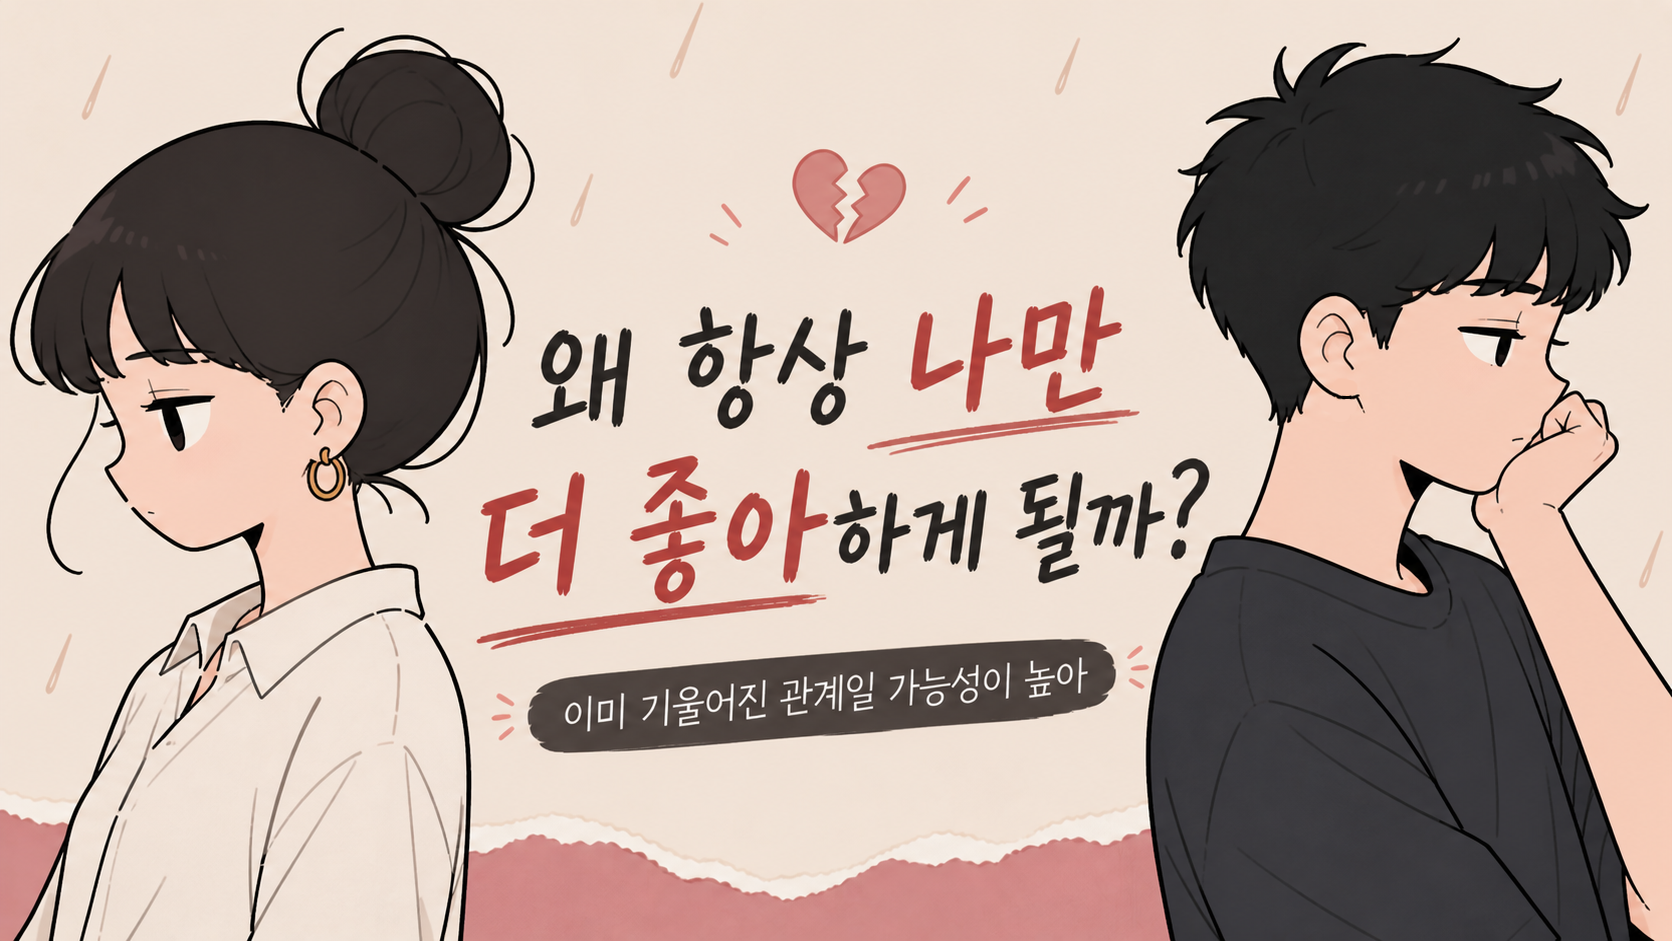
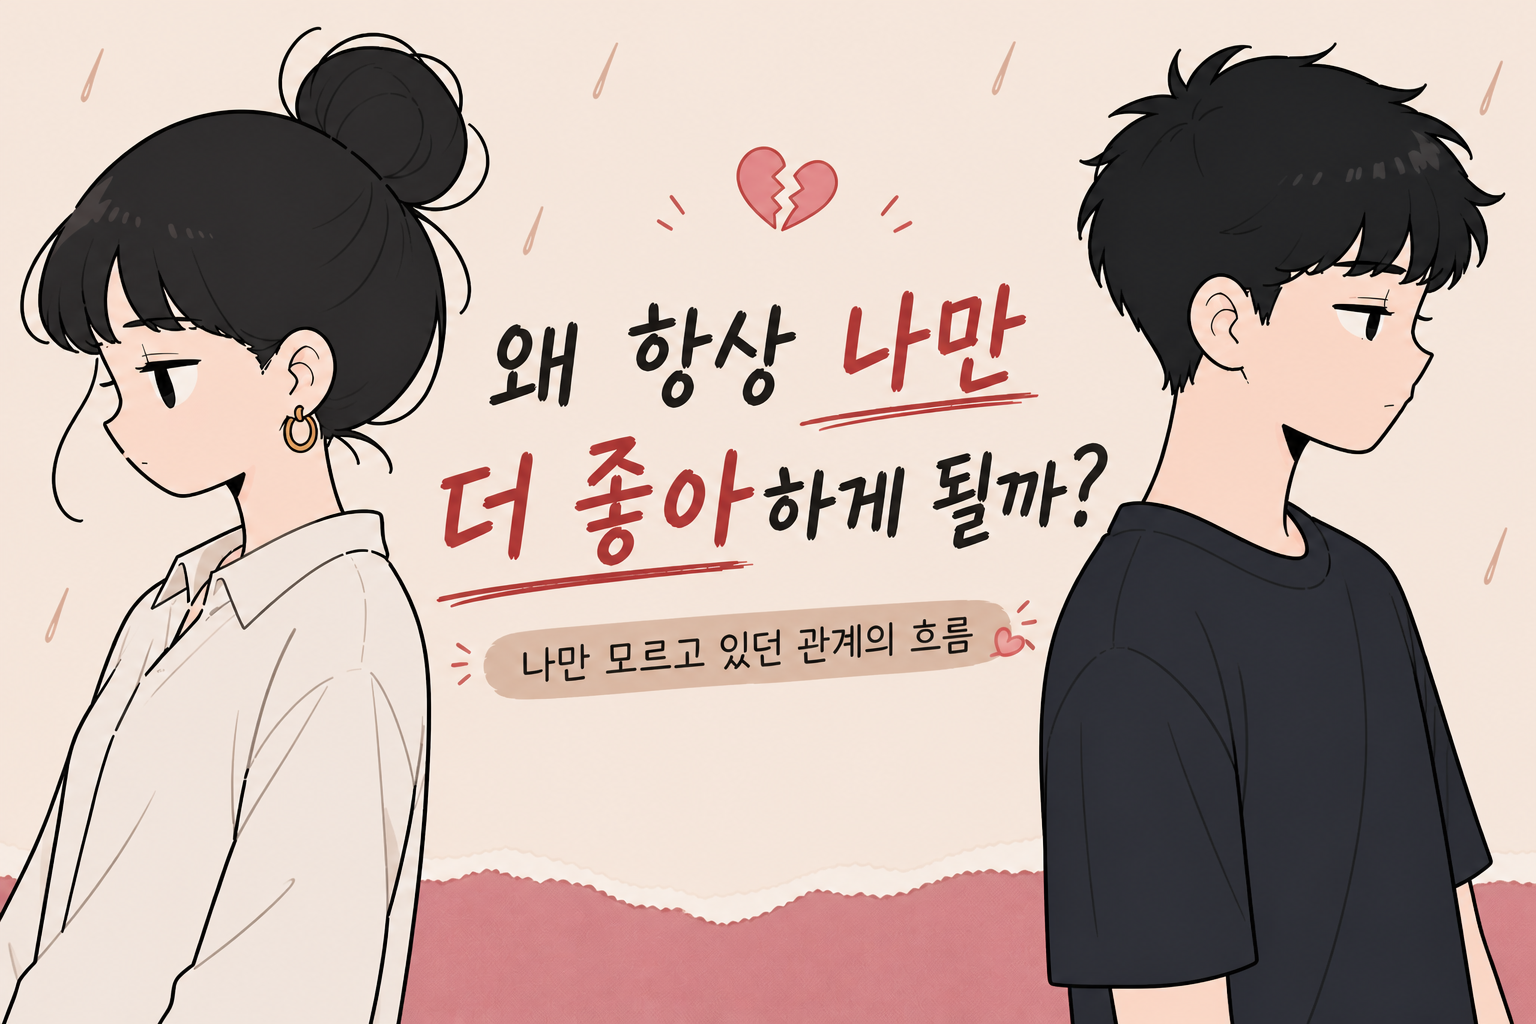
연애 썸네일 수정

diff --git a/src/components/content/content-intro.tsx b/src/components/content/content-intro.tsx
@@ -45,11 +45,6 @@ const ContentIntro = ({ content }: ContentIntroProps) => {
   const [loading, setLoading] = useState(false);
   const config = CATEGORY_CONFIG[content.category];
 
-  /**
-   * 시작 버튼 핸들러
-   * TODO: [백엔드 연동] mock session을 POST /api/sessions 실제 호출로 교체
-   * 현재는 crypto.randomUUID()로 mock session_id를 생성 후 /analyze로 이동
-   */
   const handleStart = async () => {
     setLoading(true);
     const mockSessionId = crypto.randomUUID();
@@ -57,121 +52,96 @@ const ContentIntro = ({ content }: ContentIntroProps) => {
   };
 
   return (
-    <div className="relative min-h-[calc(100vh-3.5rem)]">
-      {/* 전체 페이지 블러 배경 */}
+    <div className="relative min-h-[calc(100vh-3.5rem)] overflow-hidden">
+      {/* SEO / 접근성용 제목 */}
+      <h1 className="sr-only">{content.title}</h1>
+      {content.subtitle && <p className="sr-only">{content.subtitle}</p>}
+
+      {/* 전체 블러 배경 */}
       {content.thumbnail_url && (
-        <div className="absolute inset-0 overflow-hidden">
+        <div className="absolute inset-0">
           <Image
             src={content.thumbnail_url}
             alt=""
             fill
-            className="scale-110 object-cover opacity-15 blur-3xl"
+            sizes="100vw"
+            className="scale-125 object-cover opacity-20 blur-3xl"
             priority
           />
         </div>
       )}
+
       <div
-        className={`absolute inset-0 bg-gradient-to-b ${config.glow} via-background/50 to-background`}
+        className={`absolute inset-0 bg-gradient-to-b ${config.glow} via-background/75 to-background`}
       />
 
-      {/* ── 썸네일 이미지 섹션 ── */}
-      {/*
-       * 이미지(overflow-hidden)와 그라디언트·텍스트를 분리
-       * 그라디언트를 overflow-hidden 바깥 형제로 두어 이미지 경계에서 잘리지 않도록 함
-       */}
-      <div className="relative z-10 mx-auto max-w-lg">
-        {/* 이미지 — overflow-hidden으로 클립 */}
-        <div className="relative aspect-[4/3] overflow-hidden">
-          {content.thumbnail_url ? (
-            <Image
-              src={content.thumbnail_url}
-              alt={content.title}
-              fill
-              className="object-cover object-center"
-              priority
-            />
-          ) : (
-            <div className="absolute inset-0 bg-surface/50">
-              <div className="absolute -right-8 -top-8 h-40 w-40 rounded-full border-2 border-white/10" />
-              <div className="absolute -right-3 -top-3 h-28 w-28 rounded-full border border-white/8" />
-            </div>
-          )}
-          {/* 카테고리 배지 */}
-          <div className="absolute left-4 top-4">
-            <span
-              className={`rounded-lg px-3 py-1 text-xs font-semibold backdrop-blur-sm ${config.badge}`}
-            >
-              {CATEGORY_LABELS[content.category]}
-            </span>
-          </div>
-        </div>
-
-        {/*
-         * 그라디언트 — overflow-hidden 바깥에 위치
-         * inset-x-0 bottom-0 h-[55%] → 이미지 하단 55% 구간을 덮으며 자연스럽게 페이드
-         * overflow-hidden에 클립되지 않으므로 경계선 없이 매끄럽게 사라짐
-         */}
-        <div className="pointer-events-none absolute inset-x-0 bottom-0 h-[55%] bg-gradient-to-t from-background via-background/75 to-transparent" />
-
-        {/* 제목 + 서브텍스트 — 그라디언트 위, 역시 overflow-hidden 바깥 */}
-        <div className="absolute inset-x-0 bottom-0 px-6 pb-6">
-          <h1 className="whitespace-pre-line text-[1.875rem] font-bold leading-tight text-white drop-shadow-lg sm:text-4xl">
-            {content.title}
-          </h1>
-          {content.subtitle && (
-            <p className="mt-2 text-sm leading-relaxed text-white/60 drop-shadow">
-              {content.subtitle}
-            </p>
-          )}
-        </div>
-      </div>
-
-      {/* ── 정보 섹션 — 박스 없이 텍스트로만 흐름 유지 ── */}
-      <div className="relative z-10 mx-auto max-w-lg px-6 pb-14 pt-6">
-        {/* 이걸 보면 알게 되는 것 */}
-        <p className="mb-4 text-[10px] font-semibold uppercase tracking-[0.15em] text-white/30">
-          이걸 보면 알게 되는 것
-        </p>
-        <ul className="space-y-3">
-          {(content.insights ?? []).map((insight, i) => (
-            <li key={i} className="flex items-start gap-3">
-              <span
-                className={`mt-[7px] h-1.5 w-1.5 shrink-0 rounded-full ${config.dot}`}
+      <main className="relative z-10 mx-auto max-w-lg px-5 pb-12 pt-4">
+        {/* 썸네일 */}
+        <section className="relative">
+          <div className="relative aspect-[16/9] overflow-hidden rounded-[28px] bg-white/[0.04] shadow-2xl shadow-black/30">
+            {content.thumbnail_url ? (
+              <Image
+                src={content.thumbnail_url}
+                alt={content.title}
+                fill
+                sizes="(max-width: 640px) calc(100vw - 40px), 512px"
+                className="object-cover object-center"
+                priority
               />
-              <span className="text-sm leading-snug text-white/70">
-                {insight}
+            ) : (
+              <div className="absolute inset-0 bg-surface/50" />
+            )}
+          </div>
+        </section>
+
+        {/* 본문 카드 */}
+        <section className="mt-5">
+          <div className="rounded-[28px] border border-white/8 bg-white/[0.04] p-5 backdrop-blur-sm">
+            <div className="mb-5 flex items-center justify-between">
+              <span
+                className={`rounded-full px-3 py-1 text-xs font-semibold ${config.badge}`}
+              >
+                {CATEGORY_LABELS[content.category]}
               </span>
-            </li>
-          ))}
-        </ul>
 
-        {/* 소요 시간 */}
-        <div className="mt-5 flex items-center gap-1.5 text-xs text-white/35">
-          <svg
-            xmlns="http://www.w3.org/2000/svg"
-            className="h-3.5 w-3.5 shrink-0"
-            viewBox="0 0 24 24"
-            fill="none"
-            stroke="currentColor"
-            strokeWidth="2"
-            strokeLinecap="round"
-            strokeLinejoin="round"
-          >
-            <circle cx="12" cy="12" r="10" />
-            <polyline points="12 6 12 12 16 14" />
-          </svg>
-          약 {content.estimated_minutes ?? 5}분 소요
-        </div>
+              <span className="rounded-full bg-white/8 px-3 py-1 text-xs font-medium text-white/45">
+                약 {content.estimated_minutes ?? 5}분
+              </span>
+            </div>
 
-        {/* 시작 버튼 */}
-        <button
-          onClick={handleStart}
-          disabled={loading}
-          className={`mt-8 w-full rounded-2xl py-4 text-base font-semibold transition-all duration-200 active:scale-[0.98] disabled:cursor-not-allowed disabled:opacity-60 ${config.button}`}
-        >
-          {loading ? "세션 생성 중..." : "시작하기 →"}
-        </button>
-      </div>
+            <p className="text-center text-[15px] leading-relaxed text-white/72">
+              몇 가지 질문이면, <br />왜 이런지 바로 알 수 있어.
+            </p>
+
+            <div className="mt-6 space-y-3">
+              {(content.insights ?? []).map((insight, i) => (
+                <div
+                  key={i}
+                  className="flex items-center gap-3 rounded-2xl bg-white/[0.06] px-4 py-3"
+                >
+                  <div
+                    className={`flex h-7 w-7 shrink-0 items-center justify-center rounded-full text-xs font-semibold text-white bg-white/10`}
+                  >
+                    {i + 1}
+                  </div>
+
+                  <span className="text-sm font-medium leading-snug text-white/80">
+                    {insight}
+                  </span>
+                </div>
+              ))}
+            </div>
+
+            <button
+              onClick={handleStart}
+              disabled={loading}
+              className={`mt-7 w-full rounded-2xl py-4 text-base font-bold shadow-lg shadow-black/20 transition-all duration-200 active:scale-[0.98] disabled:cursor-not-allowed disabled:opacity-60 ${config.button}`}
+            >
+              {loading ? "준비 중..." : "지금 확인하기 →"}
+            </button>
+          </div>
+        </section>
+      </main>
     </div>
   );
 };

diff --git a/src/lib/data/dummy-contents.ts b/src/lib/data/dummy-contents.ts
@@ -6,7 +6,7 @@ export const DUMMY_CONTENTS: Content[] = [
   {
     id: "love-1",
     title: "사랑일까,\n집착일까?",
-    subtitle: "이미 선을 넘고 있는 걸 수도 있어",
+    subtitle: "집착인지 아닌지 판단하는 기준",
     category: "love",
     thumbnail_url: "/img/love-1.png",
     input_type: "free",
@@ -22,7 +22,7 @@ export const DUMMY_CONTENTS: Content[] = [
   {
     id: "love-2",
     title: "나는 진심일까, \n 그냥 외로운 걸까?",
-    subtitle: "설레는 게 아니라, 외로운 걸 수도 있어",
+    subtitle: "진심과 외로움을 구별하는 방법",
     category: "love",
     thumbnail_url: "/img/love-2.png",
     input_type: "choice",
@@ -38,7 +38,7 @@ export const DUMMY_CONTENTS: Content[] = [
   {
     id: "love-3",
     title: "왜 항상 나만 \n 더 좋아하게 될까?",
-    subtitle: "이미 기울어진 관계일 가능성이 높아",
+    subtitle: "나만 모르고 있던 관계의 흐름",
     category: "love",
     thumbnail_url: "/img/love-3.png",
     input_type: "free",
@@ -54,7 +54,7 @@ export const DUMMY_CONTENTS: Content[] = [
   {
     id: "love-4",
     title: "왜 항상 \n 썸에서 끝날까?",
-    subtitle: "시작 직전에 항상 멈추는 이유가 있어",
+    subtitle: "시작 직전에 항상 멈추는 이유",
     category: "love",
     thumbnail_url: "/img/love-4.png",
     input_type: "free",
@@ -70,7 +70,7 @@ export const DUMMY_CONTENTS: Content[] = [
   {
     id: "love-5",
     title: "이 사람,\n나 좋아하는 거 맞아?",
-    subtitle: "헷갈린다는 건 이미 신호가 있다는 뜻이야",
+    subtitle: "관계를 분명하게 만드는 방법",
     category: "love",
     thumbnail_url: null,
     input_type: "choice",
